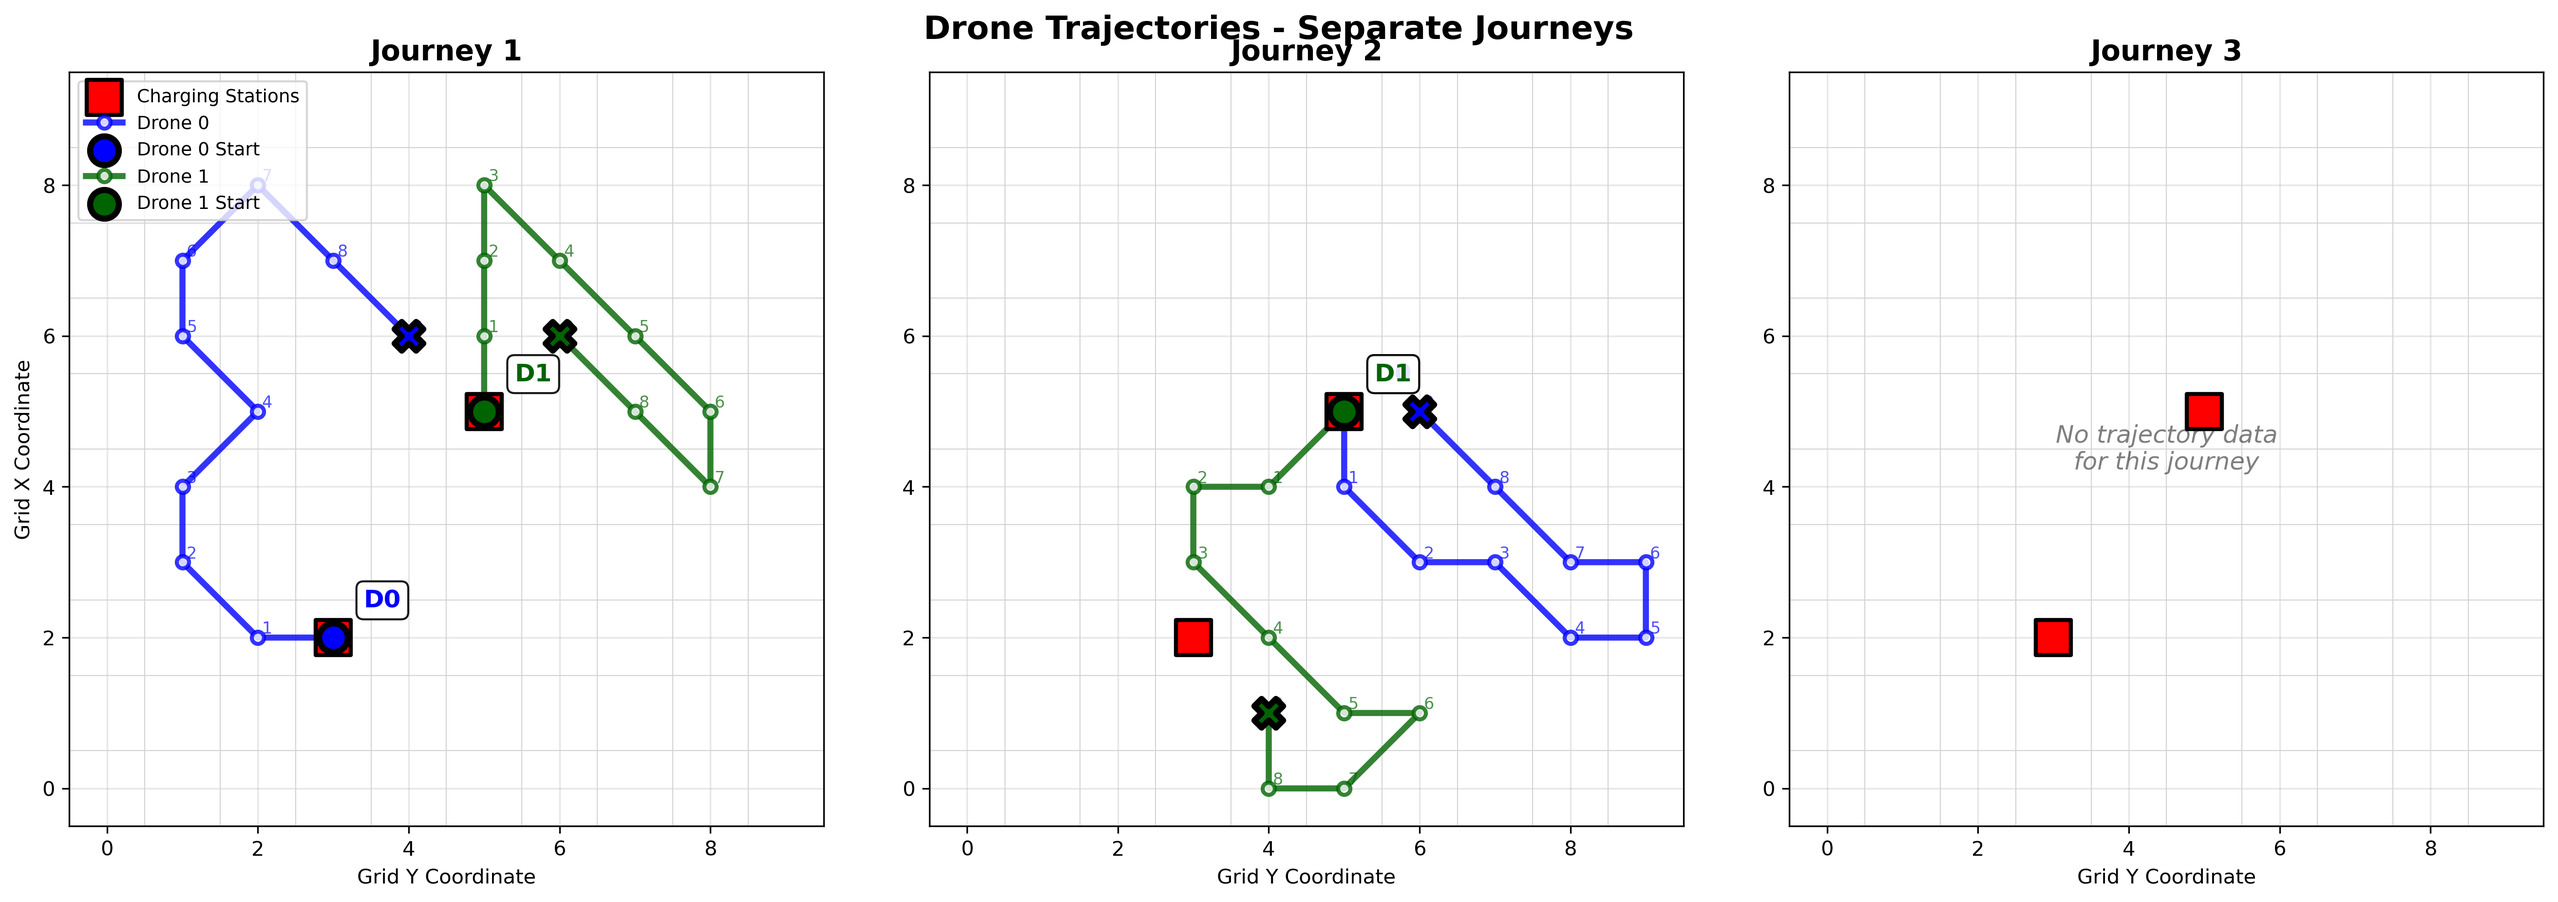
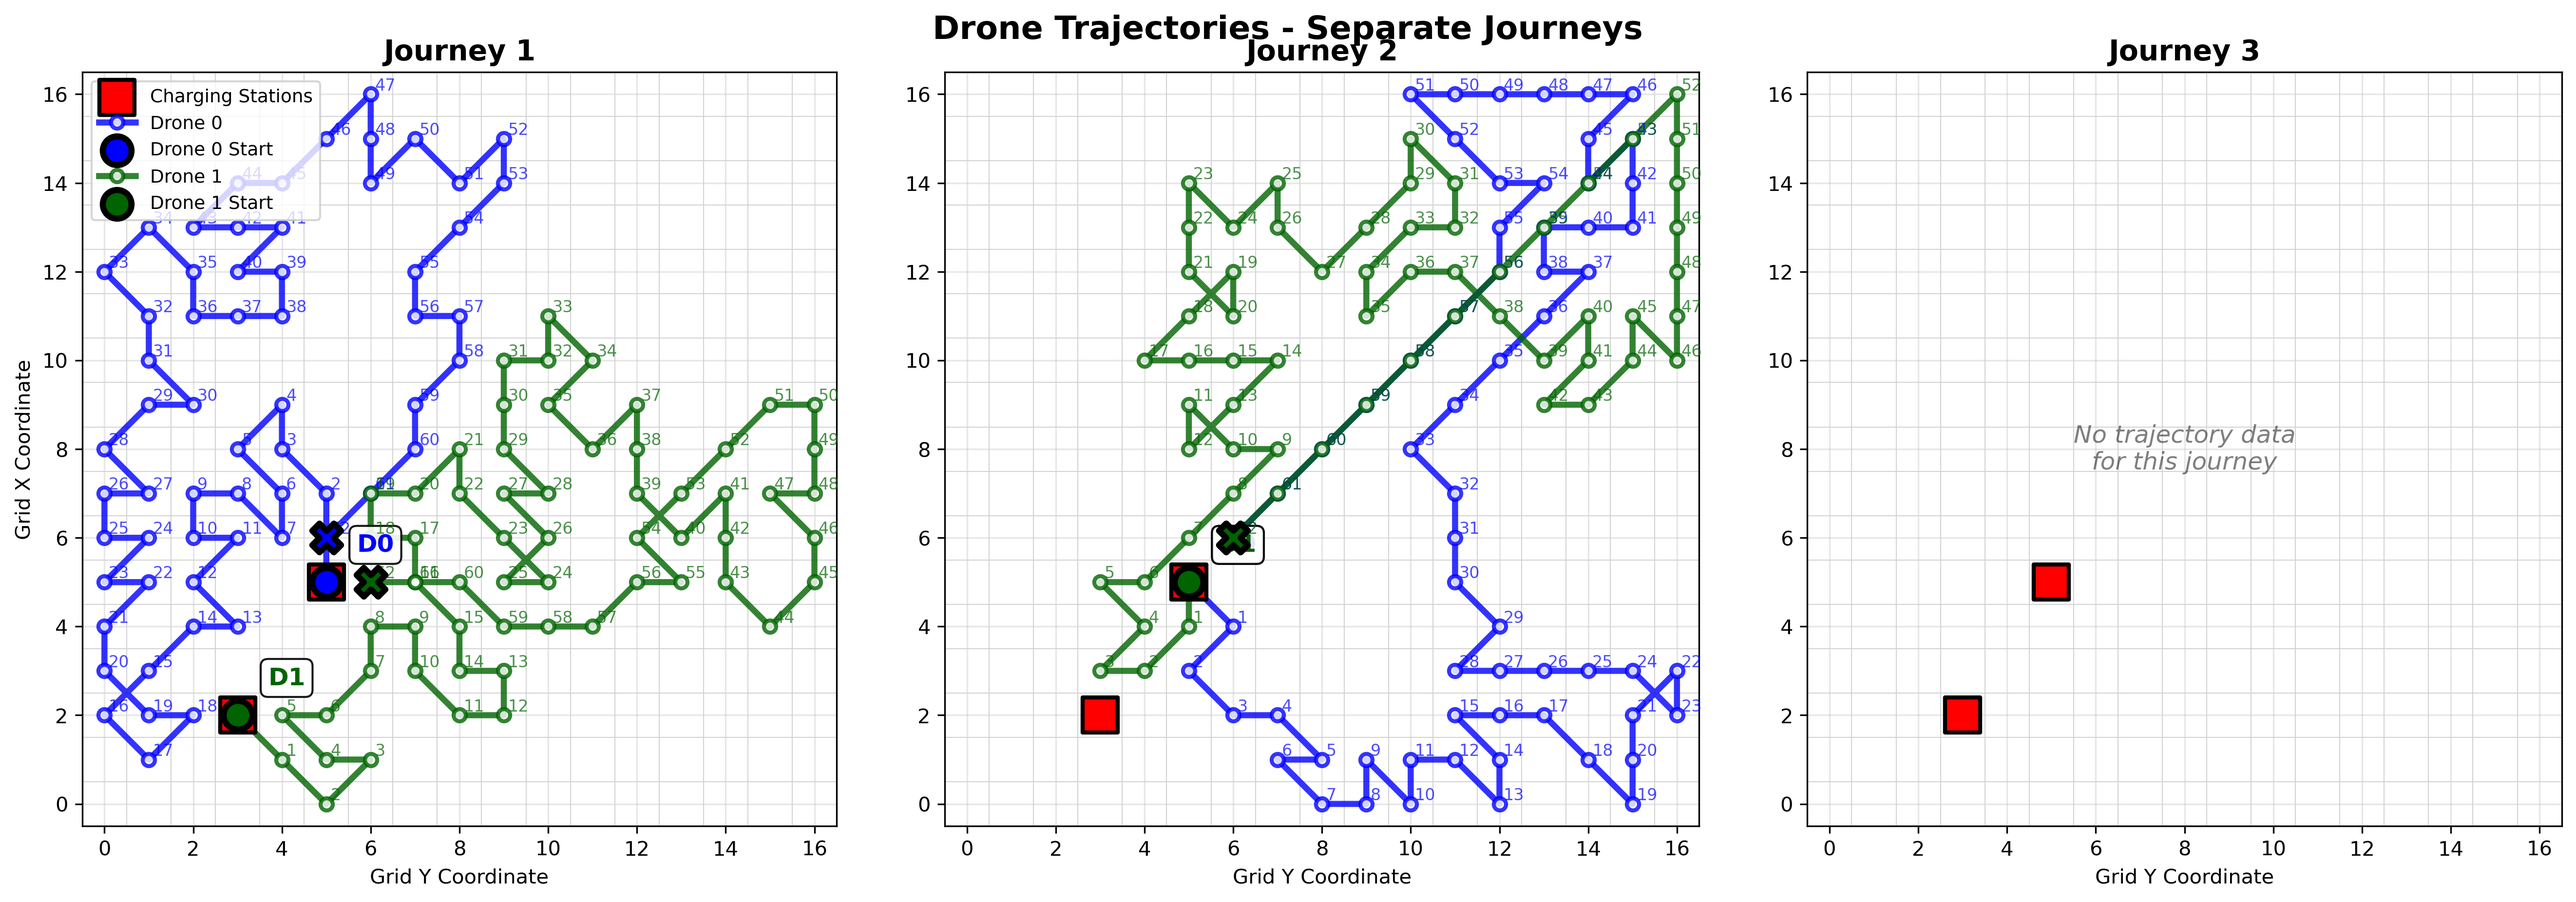
optim for GRID with shift and swap

diff --git a/tests/test_top_strategy_simple.py b/tests/test_top_strategy_simple.py
@@ -165,8 +165,8 @@ def test_top_strategy_basic():
        • each step returns exactly n_drones actions
     """
     # params
-    L = 10
-    N = M = 10
+    L = 63
+    N = M = 17
     time_periods = 2
     # --- 1. Create toy burn-map ------------------------------------
     burnmap = np.random.pareto(1, size=(1, N, M)) * 0.001  # Pareto with shape parameter 1 gives very fat tails

diff --git a/code/my_julia_caller.py b/code/my_julia_caller.py
@@ -42,7 +42,7 @@ def initialize_julia_session():
     print("initializing the drone julia module")
     Main.include("julia/drone_routing_opt.jl")
     
-    # Main.include("julia/drone_routing_opt_linear.jl")
+    ## Main.include("julia/drone_routing_opt_linear.jl")
 
     print("initializing the TOP julia module")
     Main.include("julia/TOP.jl")
